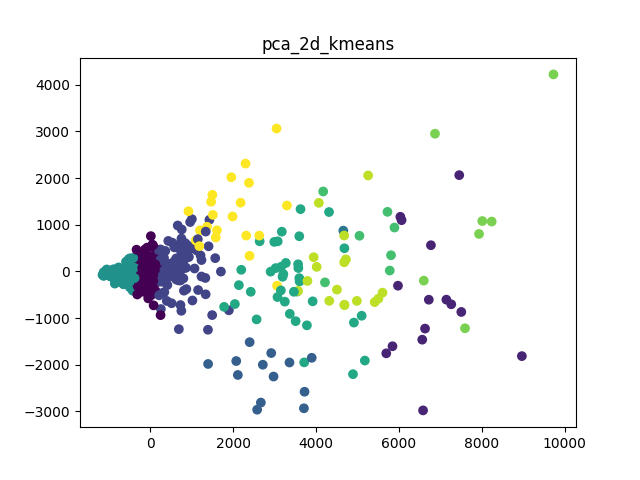
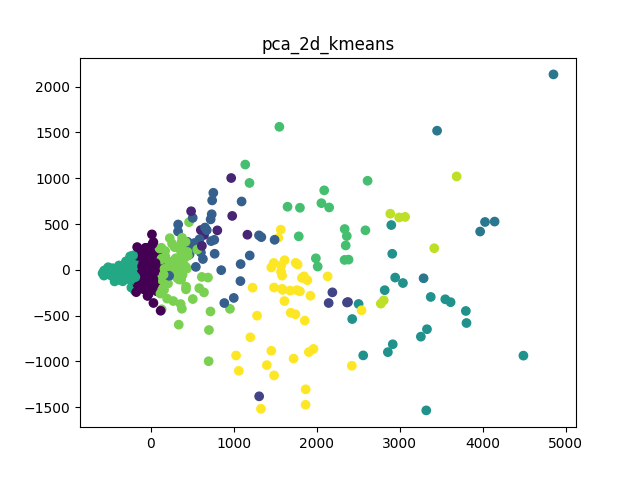
minor changes and images

diff --git a/kmeans/load_image.py b/kmeans/load_image.py
@@ -12,7 +12,7 @@ def load_images(dir,limit=100):
                 image_path = os.path.join(root, file)
                 image = cv2.imread(image_path, cv2.IMREAD_GRAYSCALE)
                 
-                image = cv2.resize(image, None, fx=0.0625, fy=0.0625)
+                image = cv2.resize(image, None, fx=0.03125, fy=0.03125)
                 print(image.shape)
 
                 images.append(np.reshape(image,(-1,)))
